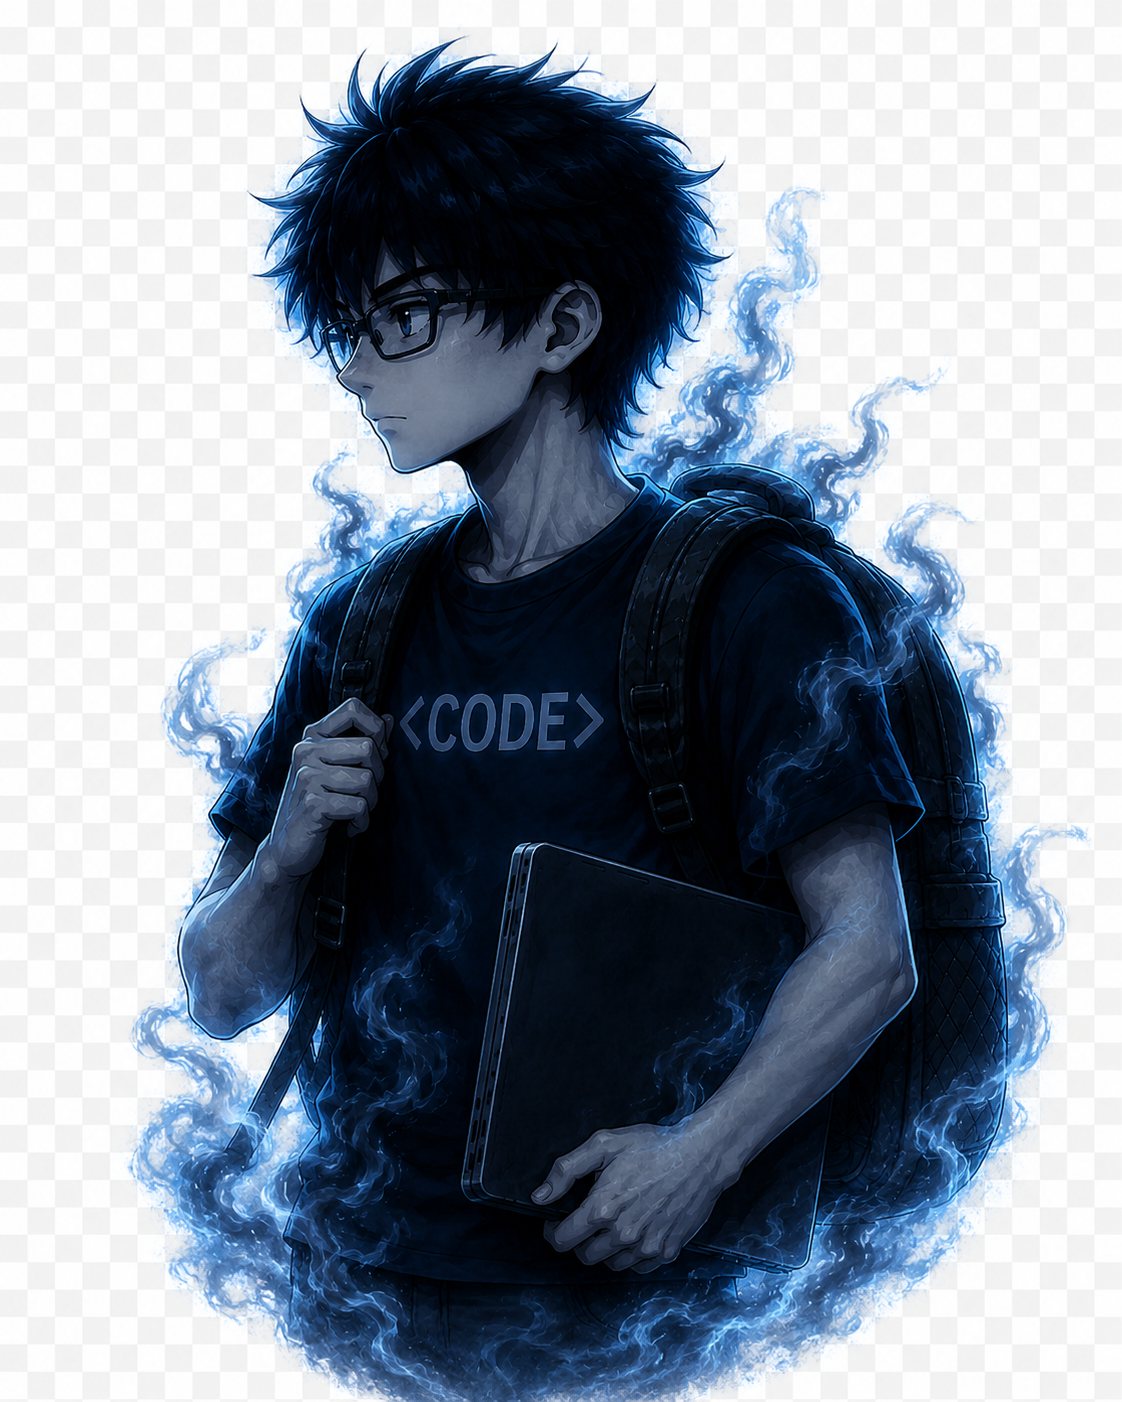
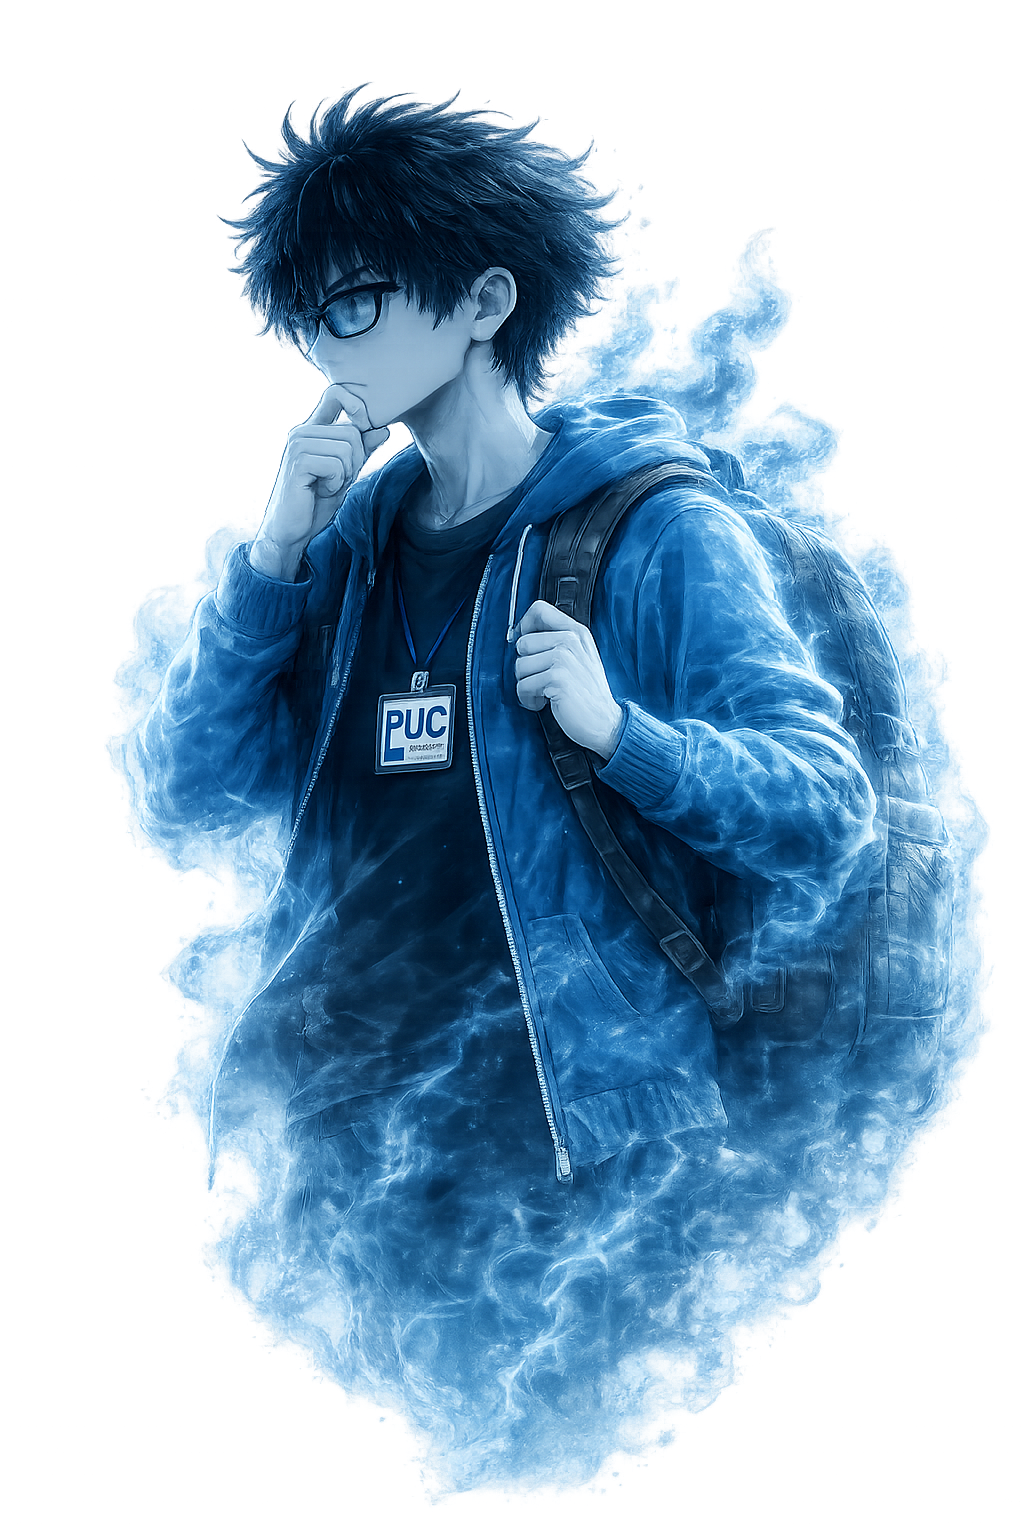
Ajustando as reações da Arena

diff --git a/lib/screens/game/arena_screen.dart b/lib/screens/game/arena_screen.dart
@@ -8,6 +8,7 @@ import '../../main.dart';
 import '../../services/progress_service.dart';
 import '../../widgets/game_timer_widget.dart';
 import '../game/narrador_screen.dart';
+import '../../widgets/dialogo_com_guardiao.dart';
 
 // tela de instruções da arena
 class _InstrucoesArenaScreen extends StatelessWidget {
@@ -267,9 +268,8 @@ class _RecompensaScreenState extends State<_RecompensaScreen> {
                       SizedBox(height: 15),
                       Text(
                         "Este fragmento é parte de algo maior.\n"
-                        "Continue explorando para encontrar\n"
-                        "os outros fragmentos e descobrir\n"
-                        "os segredos deste lugar.",
+                        "Você está quase descobrindo todos os\n"
+                        "segredos deste lugar.",
                         textAlign: TextAlign.center,
                         style: TextStyle(
                           color: Colors.white70,
@@ -328,6 +328,10 @@ class _RecompensaScreenState extends State<_RecompensaScreen> {
 class DesafioArenaScreen extends StatefulWidget {
   const DesafioArenaScreen({super.key});
 
+  static const String _imagemGuardiaoArena =
+      'assets/guardiao/arenaguardiao.png';
+
+
   @override
   State<DesafioArenaScreen> createState() => _DesafioArenaScreenState();
 }
@@ -363,12 +367,15 @@ class _DesafioArenaScreenState extends State<DesafioArenaScreen> {
   FalaConfig.guardiao('Vejo determinação nos seus passos... isso é raro.'),
   FalaConfig.guardiao('Mas não pense que sua jornada termina aqui.'),
   ];
-
-  // Falas do personagem
-  static final List<FalaConfig> _falasPersonagem = [
-    FalaConfig.personagem('Consegui vencer todos os desafios!'),
-    FalaConfig.personagem('De repente, algo chama minha atenção...'),
-  ];
+// Falas do personagem com reações
+List<FalaConfig> get _falasPersonagem => [
+  FalaConfig.personagem(
+    '${generoJogador == "feminino" ? "[feliz]" : "[feliz]"} Consegui vencer todos os desafios!',
+  ),
+  FalaConfig.personagem(
+    '${generoJogador == "feminino" ? "[surpresa]" : "[surpreso]"} De repente, algo chama minha atenção...',
+  ),
+];
 
   // Falas de erro
   static final List<FalaConfig> _falasErro = [
@@ -403,17 +410,20 @@ class _DesafioArenaScreenState extends State<DesafioArenaScreen> {
     Navigator.pushReplacement(
       context,
       MaterialPageRoute(
-        builder: (context) => PersonagemScreen(
+      builder: (context) => DialogoComGuardiao(
+        imagemGuardiao: DesafioArenaScreen._imagemGuardiaoArena,
+        personagemScreen: PersonagemScreen(
           imagemFundo: "assets/arena.png",
           falasConfig: _falasGuardiao,
-          exibirReacoes: true,
+          exibirReacoes: false,
           instrucaoToque: 'Toque para continuar',
           substituirAoAvancarFinal: true,
           proximaTela: _segundaEtapa(),
         ),
       ),
-    );
-  }
+    ),
+  );
+}
 
   Widget _segundaEtapa() {
     return PersonagemScreen(
@@ -602,16 +612,29 @@ class _DesafioArenaScreenState extends State<DesafioArenaScreen> {
 class ArenaScreen extends StatelessWidget {
   const ArenaScreen({super.key});
 
-  // Falas iniciais do personagem antes do desafio
-  static final List<FalaConfig> _falasEntrada = [
-    FalaConfig.personagem('A Arena Gamer… tem luz piscando por baixo da porta…'),
-    FalaConfig.personagem('E dá pra ouvir som de jogo… cliques rápidos…'),
-    FalaConfig.personagem('Parece que tem algo rodando lá dentro…'),
-    FalaConfig.personagem('…tem alguém aí?'),
-    FalaConfig.personagem('Uma tela… acendeu sozinha'),
-    FalaConfig.personagem('Tem alguma coisa rodando aqui… esses comandos… tão passando rápido demais.'),
-    FalaConfig.personagem('Tem um tipo de desafio acontecendo aqui dentro…'),
-  ];
+static List<FalaConfig> get _falasEntradaArena => [
+  FalaConfig.personagem(
+    '${generoJogador == "feminino" ? "[inquieta]" : "[inquieto]"} A Arena Gamer… tem luz piscando por baixo da porta…',
+  ),
+  FalaConfig.personagem(
+    '${generoJogador == "feminino" ? "[surpresa]" : "[surpreso]"} E dá pra ouvir som de jogo… cliques rápidos…',
+  ),
+  FalaConfig.personagem(
+    '${generoJogador == "feminino" ? "[confusa]" : "[confuso]"} Parece que tem algo rodando lá dentro…',
+  ),
+    FalaConfig.personagem(
+    '${generoJogador == "feminino" ? "[confusa]" : "[confuso]"} …tem alguém aí?',
+  ),
+    FalaConfig.personagem(
+    '${generoJogador == "feminino" ? "[confusa]" : "[confuso]"} Uma tela… acendeu sozinha...',
+  ),
+      FalaConfig.personagem(
+    '${generoJogador == "feminino" ? "[confusa]" : "[confuso]"} Tem alguma coisa rodando aqui… esses comandos… tão passando rápido demais.',
+  ),
+        FalaConfig.personagem(
+    '${generoJogador == "feminino" ? "[confusa]" : "[confuso]"} Tem um tipo de desafio acontecendo aqui dentro….',
+  ),
+];
 
   @override
   Widget build(BuildContext context) {
@@ -733,7 +756,8 @@ class ArenaScreen extends StatelessWidget {
           exibirNarracaoEmCaixa: true,
           proximaTela: PersonagemScreen(
             imagemFundo: "assets/arena.png",
-            falasConfig: _falasEntrada,
+            falasConfig: _falasEntradaArena,
+            exibirReacoes: true,
             instrucaoToque: 'Toque para continuar',
             substituirAoAvancarFinal: false,
             proximaTela: const _InstrucoesArenaScreen(),

diff --git a/lib/screens/game/personagem_screen.dart b/lib/screens/game/personagem_screen.dart
@@ -72,22 +72,22 @@ class _PersonagemScreenState extends State<PersonagemScreen> {
   }
 
   // NOVO: Determina qual ícone mostrar
-  String _getIconePath() {
-    if (_falas.isEmpty) return _defaultCharacterImage();
+String? _getIconePath() {
+  if (_falas.isEmpty) return _defaultCharacterImage();
 
-    if (widget.falasConfig != null &&
-        widget.falasConfig!.isNotEmpty &&
-        indice < widget.falasConfig!.length) {
-      final config = widget.falasConfig![indice];
+  if (widget.falasConfig != null &&
+      widget.falasConfig!.isNotEmpty &&
+      indice < widget.falasConfig!.length) {
+    final config = widget.falasConfig![indice];
 
-      if (config.entidade == TipoEntidade.guardiao) {
-        return 'assets/guardiao.png';
-      }
+    // Guardião NÃO desenha imagem aqui
+    if (config.entidade == TipoEntidade.guardiao) {
+      return null;
     }
-
-    // Padrão: personagem
-    return _defaultCharacterImage();
   }
+
+  return _defaultCharacterImage();
+}
 
   // NOVO: Determina qual nome mostrar
   String _getNomeFalante() {
@@ -218,6 +218,8 @@ class _PersonagemScreenState extends State<PersonagemScreen> {
         ? _reactionAssetPath(_reactionForIndex(indice))
         : null;
 
+    final iconePath = reactionImage ?? _getIconePath();
+
     return Scaffold(
       appBar: AppBar(
         backgroundColor: Colors.black.withValues(alpha: 0.88),
@@ -251,18 +253,21 @@ class _PersonagemScreenState extends State<PersonagemScreen> {
                   width: 450,
                   height: 450,
                   padding: const EdgeInsets.all(10),
-                  child: Image.asset(
-                    reactionImage ?? _getIconePath(),
-                    width: 210,
-                    height: 210,
-                    fit: BoxFit.contain,
-                    errorBuilder: (context, error, stackTrace) => Image.asset(
-                      _defaultCharacterImage(),
-                      width: 210,
-                      height: 210,
-                      fit: BoxFit.contain,
-                    ),
-                  ),
+                  child: _getIconePath() != null
+                      ? Image.asset(
+                          reactionImage ?? _getIconePath()!,
+                          width: 210,
+                          height: 210,
+                          fit: BoxFit.contain,
+                          errorBuilder: (context, error, stackTrace) =>
+                              Image.asset(
+                                _defaultCharacterImage(),
+                                width: 210,
+                                height: 210,
+                                fit: BoxFit.contain,
+                              ),
+                        )
+                 : const SizedBox(),
                 ),
               ),
             ),
@@ -282,20 +287,22 @@ class _PersonagemScreenState extends State<PersonagemScreen> {
                   child: Row(
                     crossAxisAlignment: CrossAxisAlignment.start,
                     children: [
-                      Container(
-                        margin: const EdgeInsets.only(right: 10),
-                        child: Image.asset(
-                          _getIconePath(), // AGORA USA O MÉTODO
-                          width: 60,
-                          height: 60,
-                          errorBuilder: (context, error, stackTrace) =>
-                              Image.asset(
-                                _defaultCharacterImage(),
-                                width: 60,
-                                height: 60,
-                              ),
-                        ),
-                      ),
+                    Container(
+                      margin: const EdgeInsets.only(right: 10),
+                      child: _getIconePath() != null
+                          ? Image.asset(
+                              _getIconePath()!,
+                              width: 60,
+                              height: 60,
+                              errorBuilder: (context, error, stackTrace) =>
+                                  Image.asset(
+                                    _defaultCharacterImage(),
+                                    width: 60,
+                                    height: 60,
+                                  ),
+                            )
+                          : const SizedBox(),
+                    ),
                       Expanded(
                         child: Column(
                           crossAxisAlignment: CrossAxisAlignment.start,

diff --git a/lib/widgets/dialogo_com_guardiao.dart b/lib/widgets/dialogo_com_guardiao.dart
@@ -21,37 +21,26 @@ class DialogoComGuardiao extends StatelessWidget {
   Widget build(BuildContext context) {
     return Stack(
       children: [
-        // A tela de diálogo original
         personagemScreen,
-        
-        // Imagem do guardião no fundo
-        Positioned.fill(
-          child: Align(
-            alignment: alinhamento,
-            child: Padding(
-              padding: const EdgeInsets.only(
-                bottom: 150, // Guardião mais para cima ou para baixo 
-                right: 20,
-              ),
+
+        Positioned(
+          bottom: 95,
+          right: -95, // espelhado do personagem
+          child: Transform.rotate(
+            angle: 0.04, // espelhado do personagem
+            child: Container(
+              width: 450,
+              height: 450,
+              padding: const EdgeInsets.all(10),
               child: Opacity(
                 opacity: opacidade,
                 child: Image.asset(
                   imagemGuardiao,
-                  height: MediaQuery.of(context).size.height * alturaPercentual,
+                  width: 210,
+                  height: 210,
                   fit: BoxFit.contain,
                   errorBuilder: (context, error, stackTrace) {
-                    return Container(
-                      width: 200,
-                      height: 300,
-                      color: Colors.transparent,
-                      child: const Center(
-                        child: Icon(
-                          Icons.person,
-                          color: Colors.white24,
-                          size: 100,
-                        ),
-                      ),
-                    );
+                    return const SizedBox();
                   },
                 ),
               ),

diff --git a/lib/screens/game/exploration_screen.dart b/lib/screens/game/exploration_screen.dart
@@ -36,11 +36,11 @@ class _ExplorationScreenState extends State<ExplorationScreen> {
   final GameTimerService _timerService = GameTimerService();
 
   static const Map<String, Map<String, double>> locais = {
-    "Biblioteca": {"lat": -22.8338, "lng": -47.051930},
-    "Manacas": {"lat": -22.8323, "lng": -47.05144},
-    "Mescla": {"lat": -22.83416204909936, "lng": -47.05235984253339},
-    "Praça": {"lat": -22.8341, "lng": -47.0523566},
-    "Arena": {"lat": -22.834067861489412, "lng": -47.052351861193955},
+    "Biblioteca": {"lat": 37.4219983, "lng": -122.084},
+    "Manacas": {"lat": 37.4219983, "lng": -122.084},
+    "Mescla": {"lat": -37.4219983, "lng": -122.084},
+    "Praça": {"lat": 37.4219983, "lng": -122.084},
+    "Arena": {"lat": 37.4219983, "lng": -122.084},
   };
 
   // COORDENADAS REAIS (PUC)

diff --git a/lib/screens/auth/gender_selection_screen.dart b/lib/screens/auth/gender_selection_screen.dart
@@ -1,6 +1,5 @@
 import 'package:flutter/material.dart';
 import '../../services/firestore_service.dart';
-import '../game/exploration_screen.dart';
 import '../../main.dart' as main_app;
 import '../game/intro_screen.dart';
 
